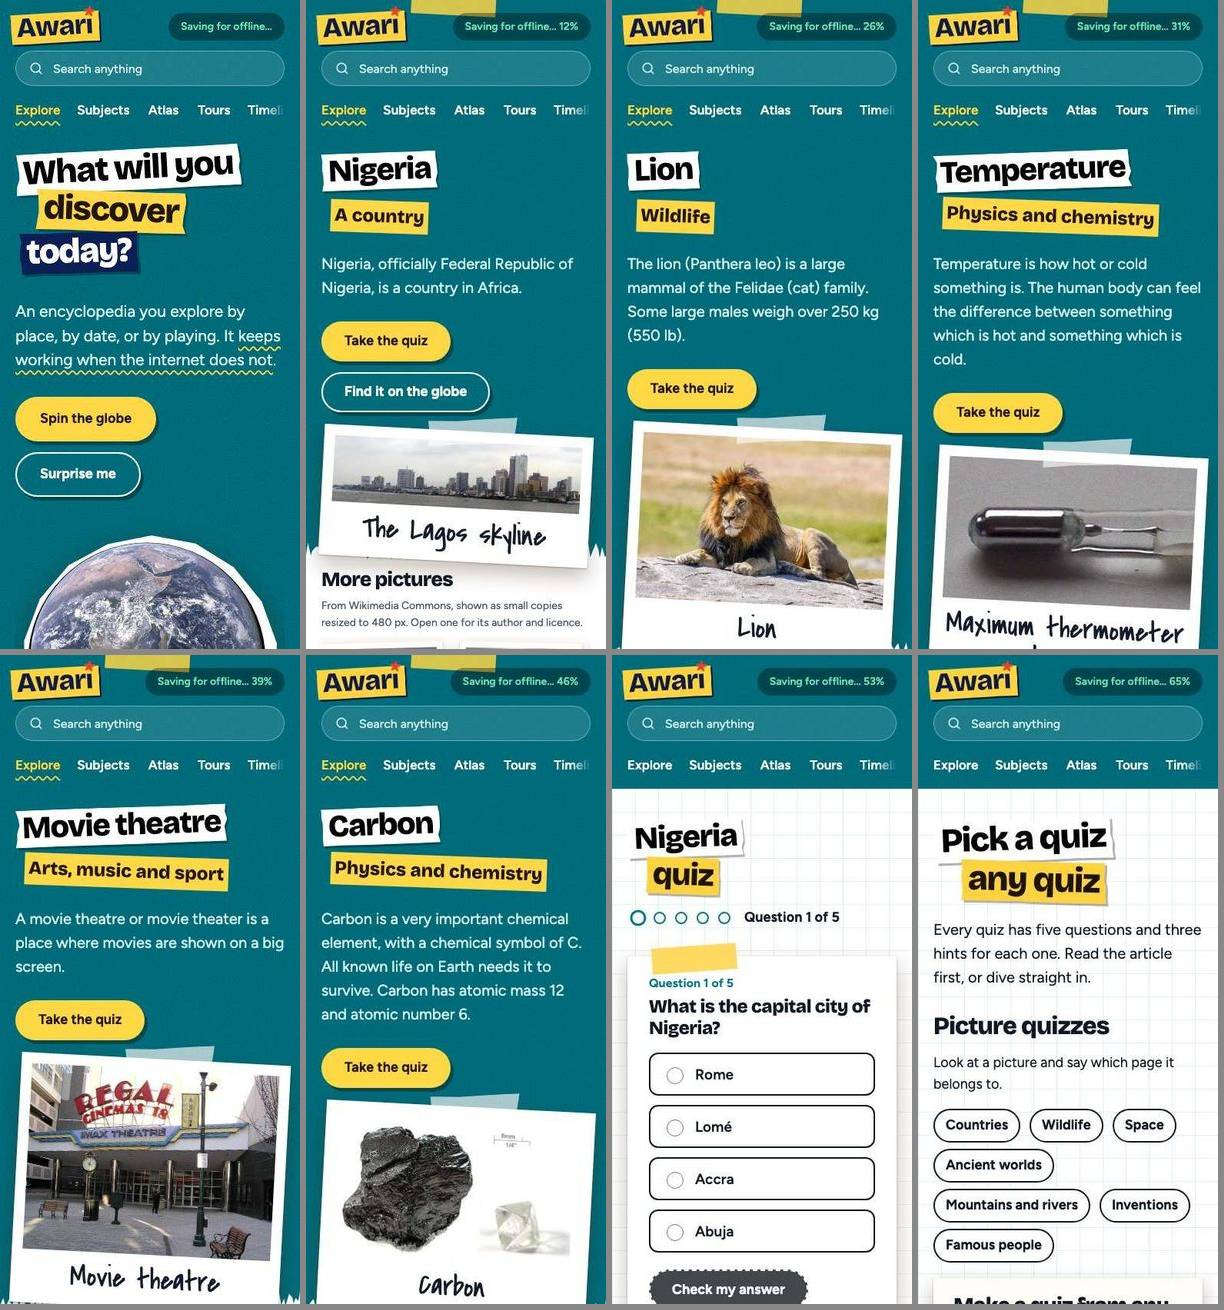
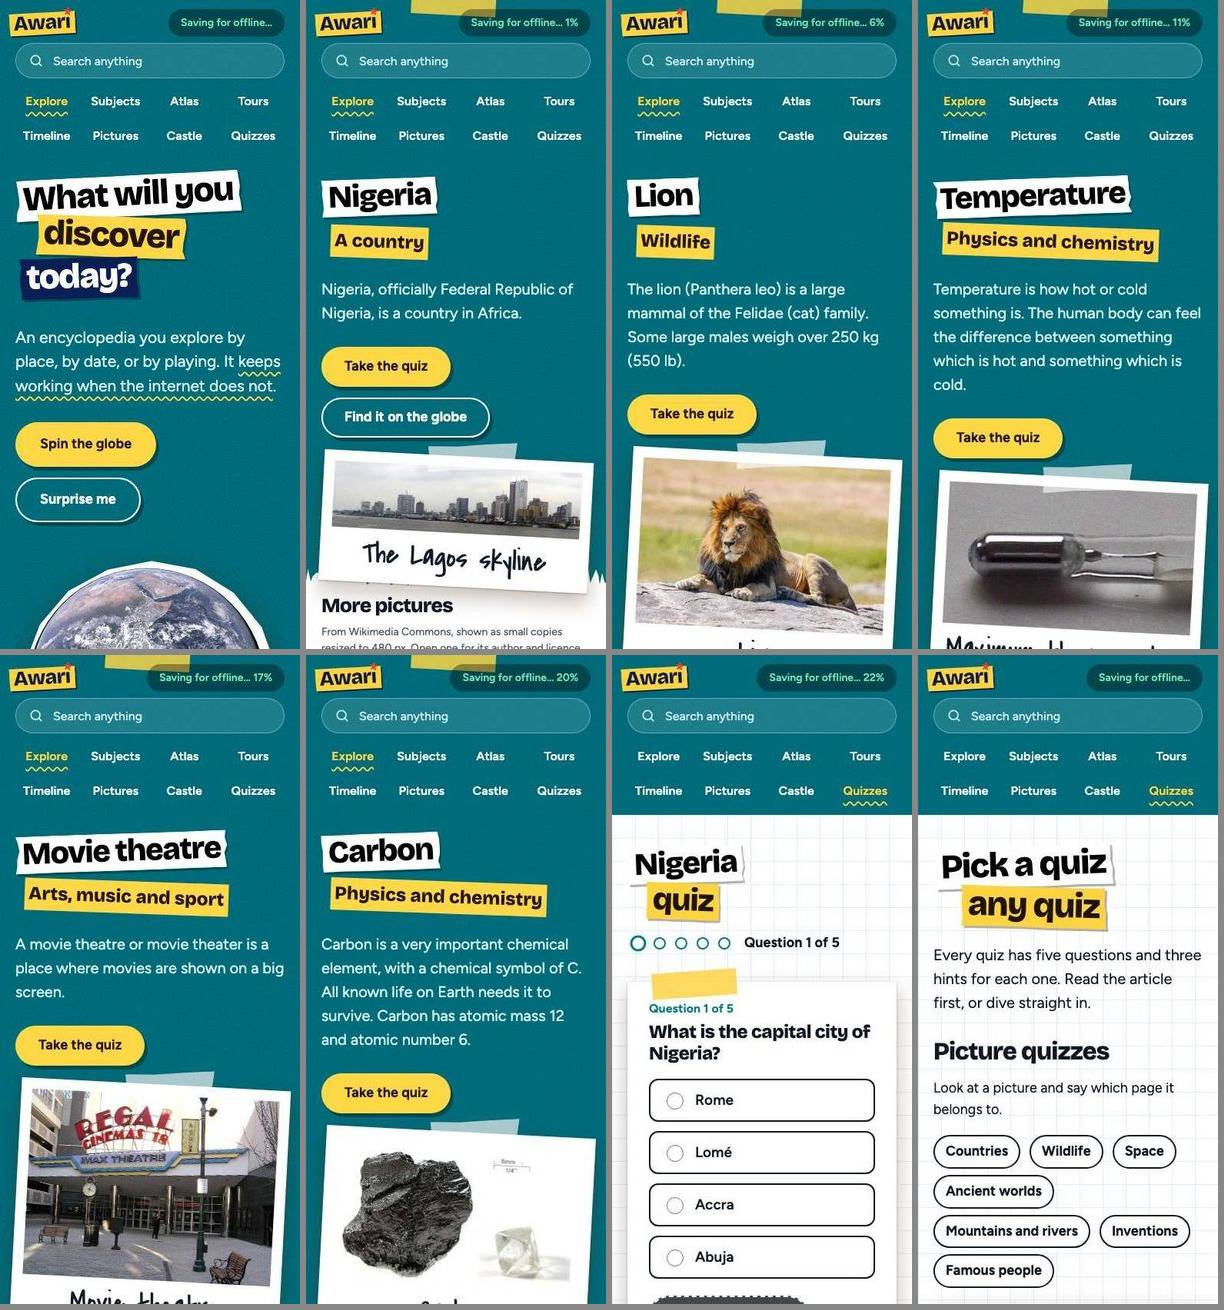
26-final-review round 3: fresh sheets, handover

diff --git a/docs/final-review/handover.md b/docs/final-review/handover.md
@@ -46,3 +46,10 @@ Never write the banned product name (`npm run rules`). Keep `docs/kiro-evidence/
 - 03:10 New finding F-019 (fixed in repo, NOT yet live): offline with no pictures saved, Pictures showed "Showing 0 of 0" (every tile failed and was removed, 3,525 requests). Now gives up after 150 misses and says "None of these pictures are on this device yet..." (test added). Also Credits fields 44 px. Crawler now dismisses the "Got it" notice after warm-up (it covered the viewer's Next/Previous and stamp-book buttons in the offline runs). NEXT: wait for design-review-2.md (reviewer 0b549c35), then write findings/judging/report, then rebuild + gates + REDEPLOY NOW, then rerun offline crawl (label live-after-offline4) on the final live build.
 - 03:30 Round-2 reviewer 0b549c35 finished; it had no file-write tool, so its report was saved verbatim as `design-review-2.md` (256 lines). Verdict on the owner's four items: quiz hint ladder FIXED; stamp book better framed but still an empty form; timeline half fixed (year still printed 3 times); Movie theatre and Carbon FIXED. New defects N-1..N-17: blockers N-1 (31 border questions teach a false fact / island nations), N-2 (a quiz built on a quotation about abortion, `people/mother-teresa.json`); majors N-3 (253 cloze proofs are a different sentence), N-4 (phone nav clipped mid-word "Timel…"), N-5 (offline toast reappears on every route load and covers content), N-6 (slovenia quiz), N-7 (about 30 wrong lead prints). TODO next, in small steps: fix N-2 (drop that question), N-1 (drop border questions with no border evidence and island nations), N-5 (check the notice truly shows once), N-4 (nav scroll hint / fit), then rebuild, gates, REDEPLOY NOW.
 - 20:20 (15 Nov) Owner pushed and asked to fix all blockers and majors. DONE and committed `d253973`: N-2 (suitability rule `src/lib/text/suitability.ts`, scan `npm run suitability` added to submission-check; 7 quiz questions and 12 pictures removed), N-1 (border question only with a "border" sentence; 116 left, Singapore gone), N-3 (cloze proof = gap's own sentence), N-6 (no gap inside a longer name; no country/capital gaps outside the countries pack). Test: `src/lib/quiz/review2.property.test.ts`. 626 tests pass. NEXT: N-5 saved notice once ever, N-4 phone nav, N-7 wrong lead prints, timeline/On this day repetition, Carbon hotel bar (removed by N-2 already: check), stamp book empty state; then rebuild, gates, REDEPLOY NOW.
+- N-4 and N-5 done (phone-header.ts passes 320 to 430 px; notice once ever, in flow). NEXT: N-7 lead prints.
+- N-7 done: 31 lead pins, 47 denylisted, Carbon hotel bar gone (N-2). 3,466 pictures, 36 articles under four (KNOWN_GAPS regenerated). Test scripts/media/lead-pins.test.ts. 629 tests pass. NEXT: timeline year x3 + On this day repeated date, then stamp book empty state.
+- Timeline year and On this day date repetition done (src/lib/text/dates.ts + tests). NEXT: stamp book empty state.
+- Stamp book outlines done (CountryOutline.tsx, test). NEXT: gates in background (.gates.log), then REDEPLOY NOW.
+- Gates passed on the round-2 fixes (submission-check incl. suitability, offline-check). Owner deploying (started ~21:00). NEXT: poll live sw.js == dist/sw.js, then round 3.
+- R3 started: crawls live-r3-1440/390/offline in background; sheets-round2 kept; fresh sheets made.
+- R3 reviewer ef0aa0c0 spawned (no write tool; save its final message as design-review-3.md from /Users/mac/.kiro/crew/subagents/ef0aa0c0/result.txt). Then: axe live-r3, findings/judging/readiness/report.
